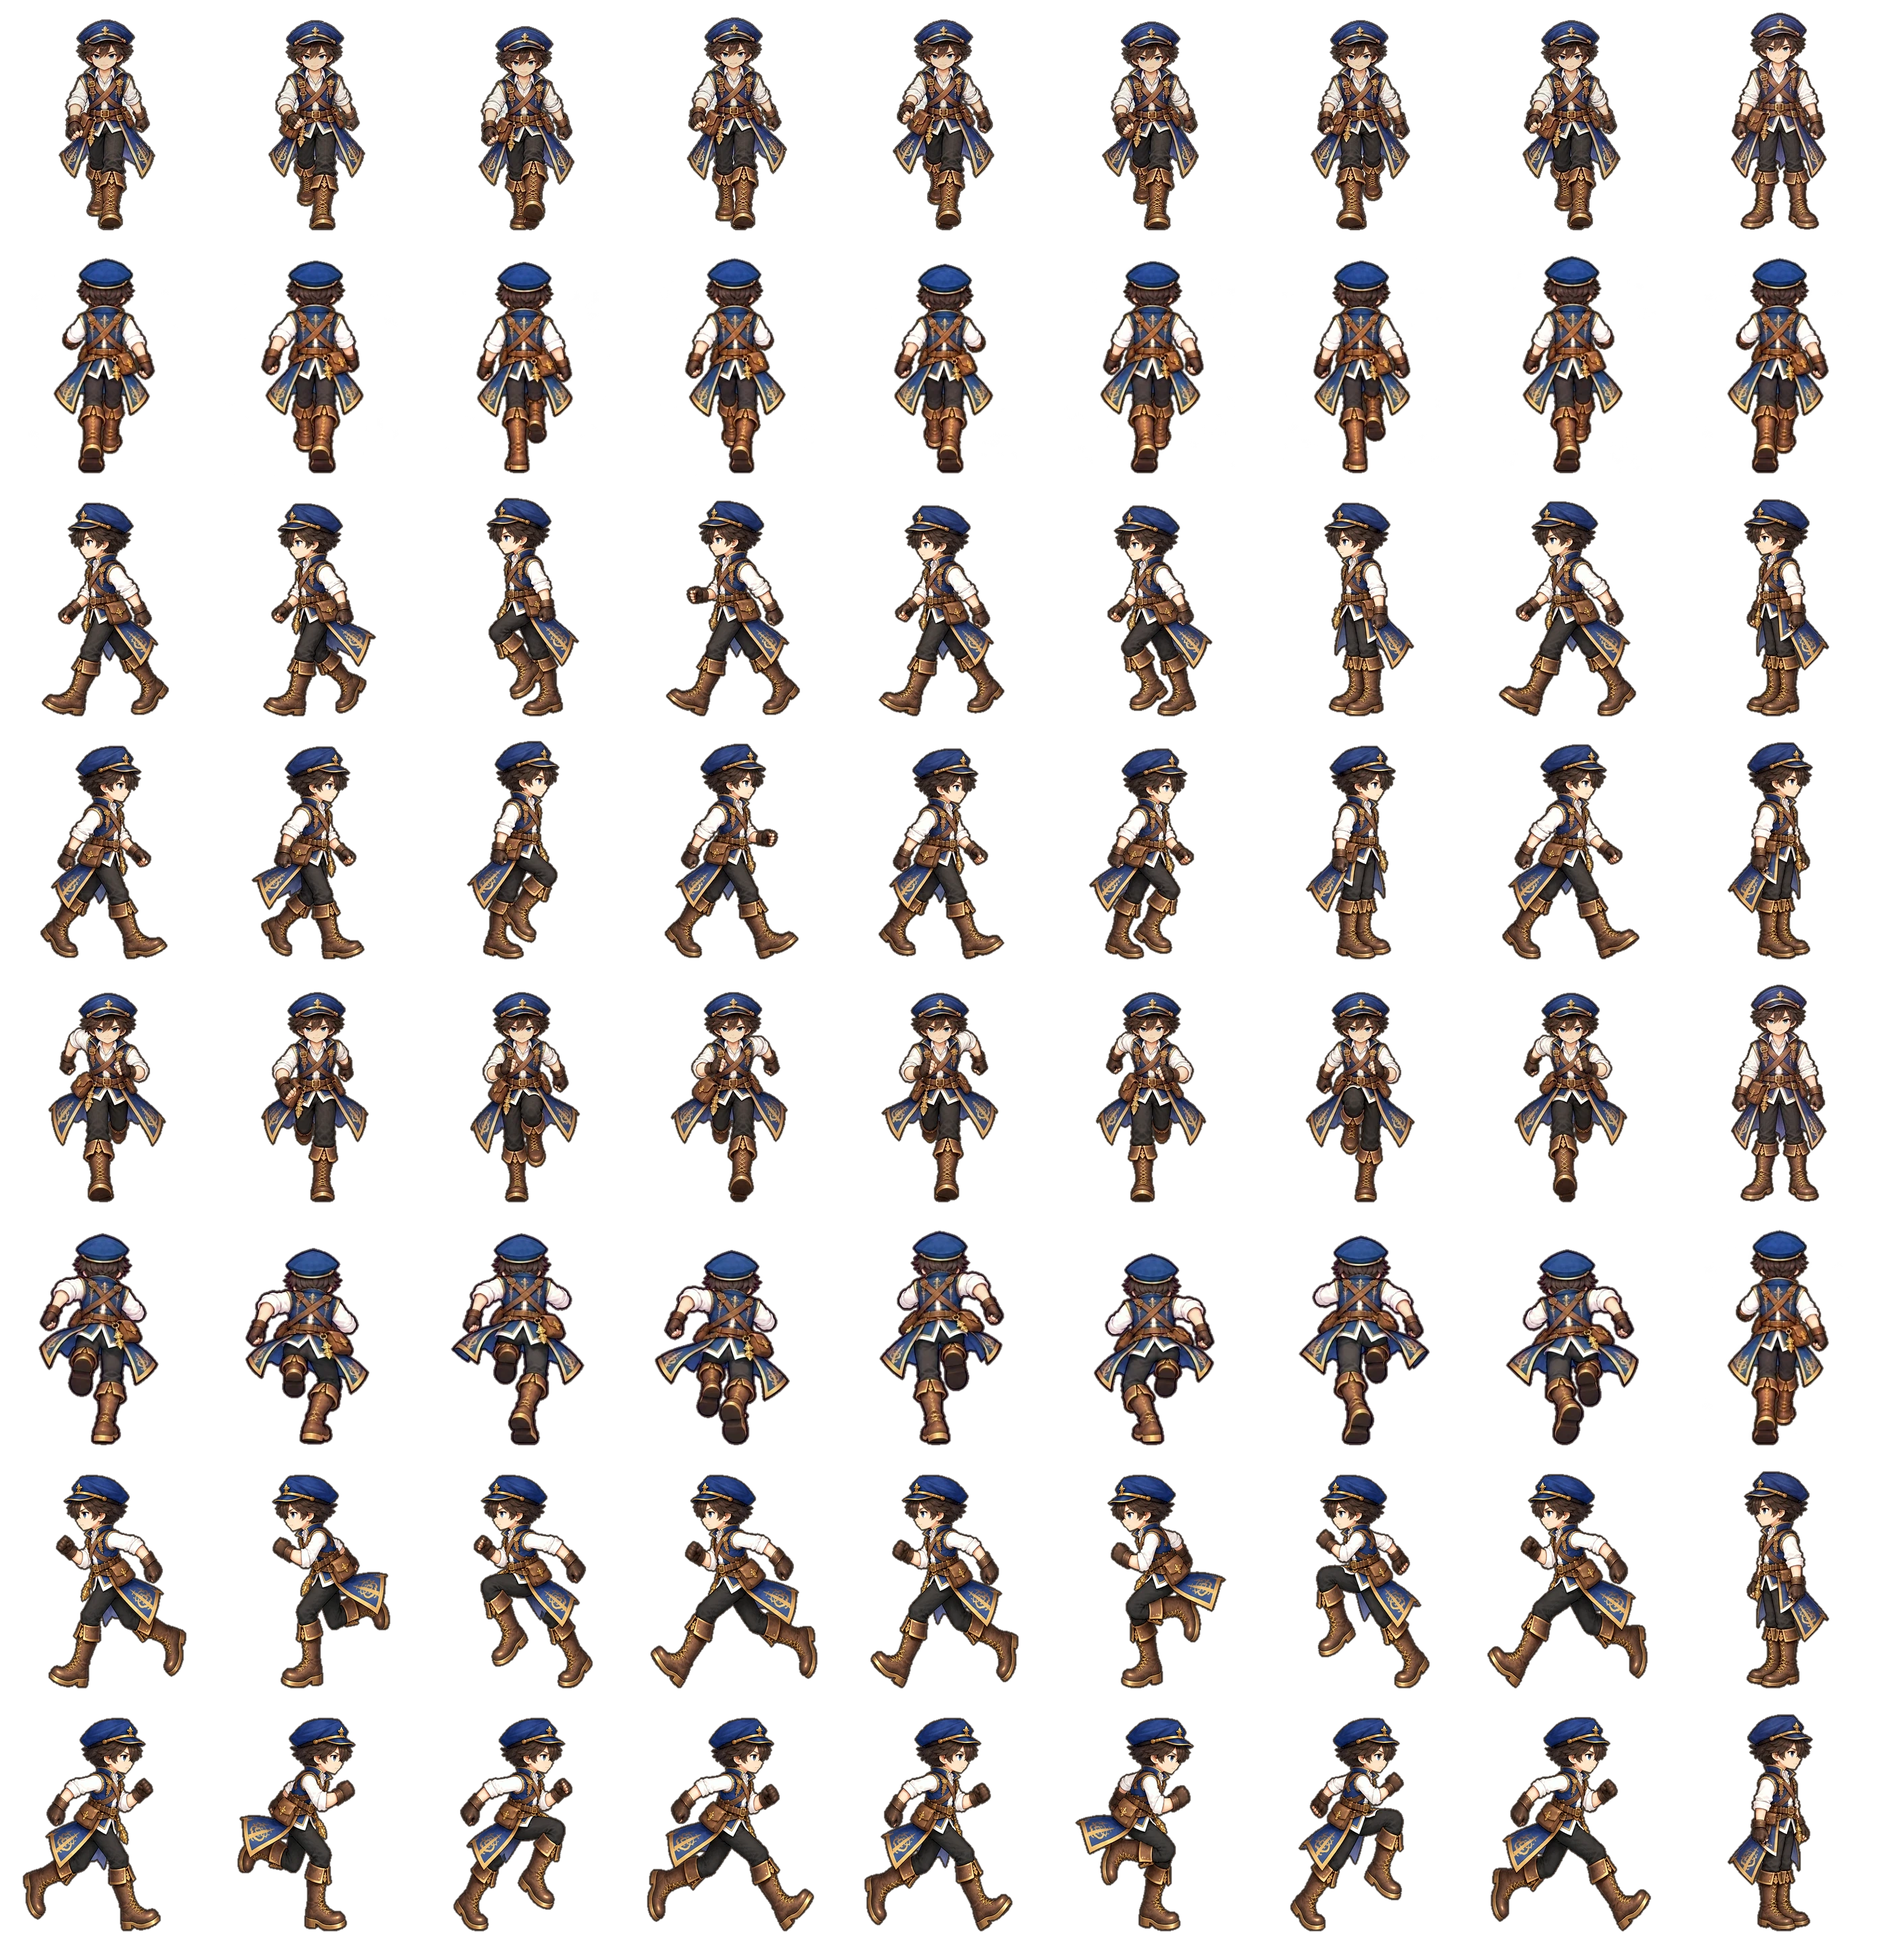
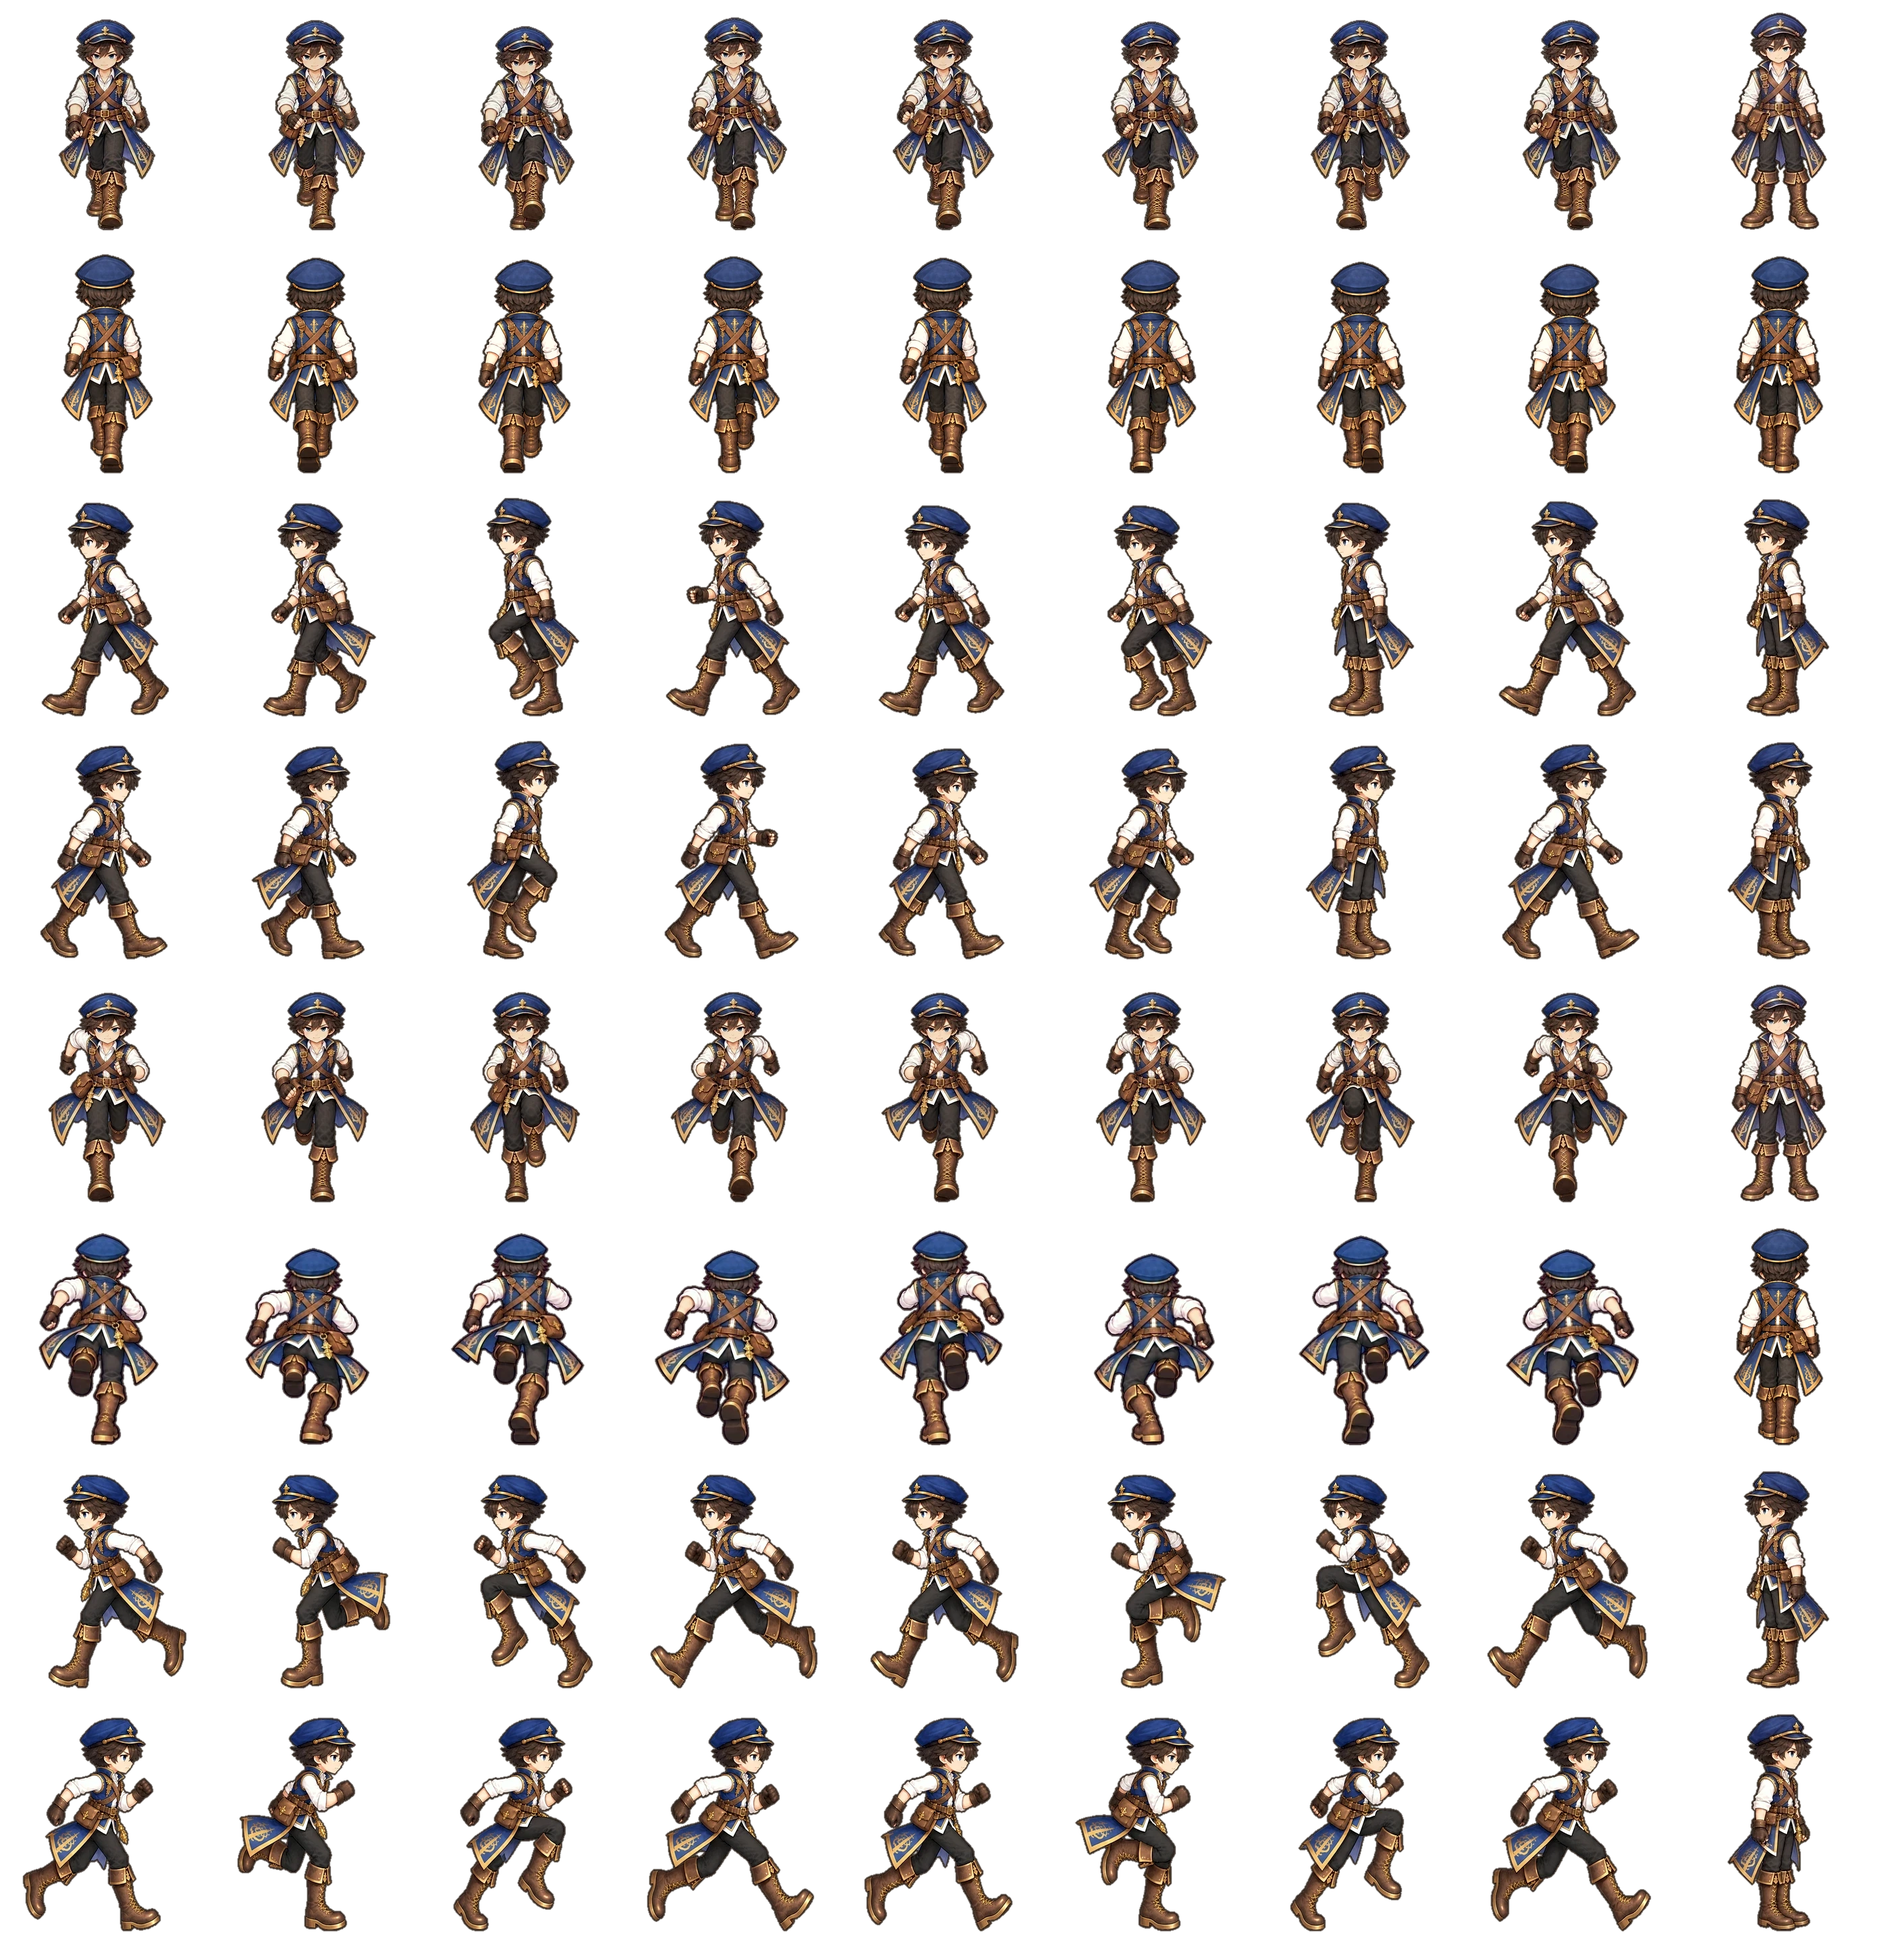
男性主人公の背中の歩きと立ち姿を、立ち絵と同じ大きさ・色の新しい絵に
- tools/art/unified_build.py：6列の絵（1段5コマ）と、使うコマの指定（--pick）に対応
- 背中の走りを頼む枠と参考画像を追加

Claude-Session: https://claude.ai/code/session_01R3L2GTo7iNgRy29W4Nqkkf

diff --git a/tools/art/unified_build.py b/tools/art/unified_build.py
@@ -14,7 +14,7 @@
 暗い輪郭 2px を付ける（ほかのコマと同じ）。左の行（2・6）を入れると、右（3・7）は左右反転で入る。
 
 使い方:
-  python3 tools/art/unified_build.py シート.webp male|female 行 届いた絵.png [--cols 5] [--stand 向きの立ち絵.png|sample [--set-idle]]
+  python3 tools/art/unified_build.py シート.webp male|female 行 届いた絵.png [--cols 5|6 [--pick 1,2,…]] [--stand 向きの立ち絵.png|sample [--set-idle]]
       [--stretch-run 歩きの届いた絵.png [--walk-cols 5]] [--out 出力.webp] [--check 確認.png]
   行：0 正面・1 背中・2 左 の歩き、4 正面・5 背中・6 左 の走り
 """
@@ -74,8 +74,9 @@ def load_poses(path: str, cols: int = 4) -> tuple[list[Image.Image], list[Image.
         ys, xs = np.nonzero(m)
         out[int(ys.mean() // rh) * cols + int(xs.mean() // cw)][m] = arr[m]
     ims = [Image.fromarray(o) for o in out]
-    if cols == 5:
-        return ims[1:5] + ims[6:10], [ims[0], ims[5]]
+    if cols >= 5:
+        # 各段の左端は見本の列（立ち姿）。残りを上の段・下の段の順に並べる（6列のときは10コマ。--pick で8コマを選ぶ）
+        return ims[1:cols] + ims[cols + 1:], [ims[0], ims[cols]]
     return ims, []
 
 
@@ -126,6 +127,9 @@ def main(args: list[str]) -> None:
     out_path = opt(args, '--out', sheet_path)
     sheet = np.array(Image.open(sheet_path).convert('RGBA'))
     poses, samples = load_poses(src, int(opt(args, '--cols', '4')))
+    if '--pick' in args:
+        # 届いた絵のコマ（1から）のうち、ゲームの8コマに使うもの（例：6列で1段5コマのとき 1,2,3,4,6,7,8,9）
+        poses = [poses[int(n) - 1] for n in opt(args, '--pick').split(',')]
     # --stand sample：届いた絵の見本の列（左端・上の段）に画像AIが描いた立ち姿を使う（同じ絵の中なので歩きと同じ割合。2026-10-25 左向き）
     stand_arg = opt(args, '--stand')
     stand = samples[0] if stand_arg == 'sample' else opaque(Image.open(stand_arg or STANDS[gender]))

diff --git a/docs/handoff.md b/docs/handoff.md
@@ -14,7 +14,7 @@
 | 歩き・走り（2026-10-24・公開済み） | 主人公は男女とも **4方向（正面・背中・左・右。右は左の反転）×「歩き8コマ＋走り8コマ」**。斜めに進むときは横の絵（ユーザー「斜めは無しで四方向に」）。シート `assets/images/characters/player_{male,female}_sheet.webp`＝9列（8コマ＋立ち）×8行（歩き4＋走り4）・1コマ 310×360。作り方：`python3 tools/art/adult_walk_build.py design-parts/characters-adult player_male assets/images/characters/player_male_sheet.webp --scale 1.25 --outline 2 --wide 248 --match-heads`（女性も同じ。1人10〜15分。scipy・OpenCV が要る）。原本は `design-parts/characters-adult/motion-v2/`（`{ID}_{向き}_walk_{r,l}.png`・`{ID}_{向き}_run8.png`）。頭の大きさを1コマずつ立ち姿にそろえる（男性 ±1.8%・女性の後ろ姿は帽子の幅）。歩く速さ 185・走り 315（論理px/秒）、1歩は絵に合わせて 歩き0.38・走り0.7（`src/game/world/walkAnim.ts`）、人物の表示 `FIGURE_ZOOM` 1.55・横 `FIGURE_WIDEN` 1.1（主人公も NPC も）。依頼文一式 `docs/design/walk-run-v3-20261024/`、受け取りの記録は同じフォルダの `10_RESULTS_UTF8.txt` |
 | 試遊の直し5点（2026-10-25・`f910b68` を公開済み・**iPhone 確認待ち**） | ①歩き・走りの絵を立ち姿の大きさ・色味に（`tools/art/match_stand.py`。できたシートにかける。倍率は行ごとの表 `SCALE`：男性は歩きの背の高さを立ち姿に合わせた値、女性は正面だけ 0.95。色は Lab の平均・ばらつきを立ち姿に。**adult_walk_build.py でシートを作り直したら、そのあと必ずこれをかける**） ②建物の中・ダンジョンでは走らない（街だけ） ③斜めに進まない（スティック・矢印キーとも上下左右の4方向） ④タップでは歩かない（近くの人・となりの家具だけ、その場で話す・調べる） ⑤スティックと「調べる」を2倍（208px・144px）。気になる点：女性の正面の走りの絵は顔が白く抜けている（元の絵のまま）、「調べる」が大きくなり部屋の「外へ」の札に一部重なることがある |
 | 立ち・歩き・走りの統一（2026-10-25 3回目・**絵の描き直し待ち**） | ユーザー「まだだめ。立ち絵と四方向の歩き・走りの全てが統一でなければ。若干サイズが変わる・走りは背が低くなる。無理なら理由と方法を」。結論：**別々に描いた絵（立ち・歩き・走り・横の立ち）は縮小・色合わせでは同一にできない**（物差しを背の高さにすると頭が、頭にすると体が違う。走りはかがんだ姿勢で頭が 15〜25% 低い。`docs/design/walk-unified-20261025/why_run.png`）。方法：正式の立ち絵を「同じ絵の中の見本」として貼った枠で歩き・走りを描き直す（走りはかがまない姿勢）。依頼一式 `docs/design/walk-unified-20261025/`（作るのは `tools/design/walk_unified_pack.py`。ZIP はユーザーに渡し済み）。届いたら：見本との帽子の幅・背の高さ・色を測り（3% まで Claude が直す）、`adult_walk_build.py` で組み込む（新しい枠は5列×2段なので切り出しを足す） |
-| 統一の絵の受け取り（2026-10-25） | 男性・正面の歩き＝使う（頭をそろえると背 −2〜−4%・色 +2）。男性・正面の走り＝2回目も背 −8〜−11% のため、腰から下を縦に伸ばして歩きと同じ背に（`tools/art/unified_build.py --stretch-run`）。記録 `docs/design/walk-unified-20261025/10_RESULTS_UTF8.txt`。**男性の正面・左右の立ち・歩き・走りはゲームに入れた（未公開）**。組み込みは `tools/art/unified_build.py`（頭の大きさで立ち絵にそろえる）。次は男性の背中 |
+| 統一の絵の受け取り（2026-10-25） | 男性・正面の歩き＝使う（頭をそろえると背 −2〜−4%・色 +2）。男性・正面の走り＝2回目も背 −8〜−11% のため、腰から下を縦に伸ばして歩きと同じ背に（`tools/art/unified_build.py --stretch-run`）。記録 `docs/design/walk-unified-20261025/10_RESULTS_UTF8.txt`。**男性の正面・左右の立ち・歩き・走り、背中の立ち・歩きはゲームに入れた（未公開）**。組み込みは `tools/art/unified_build.py`（頭の大きさで立ち絵にそろえる）。次は男性の背中の走り |
 | 公開する版 | `main`。作業はブランチで行い、確認後に `main` へマージしてから公開する |
 | 本編 | `mystic-monsters`（育成ゲーム本編）は**変更禁止**。素材の利用だけ許可済み（読み取りのみ） |
 | バトルのルール | **PS版『モンスターファーム バトルカード』準拠。変えるのは3点だけ**：山札60枚・ガッツを「マナ」と表記・全体カードとブリーダー（プレイヤー）カードを「サポート」に集約（ユーザー決定。`docs/battle-rules.md`） |
